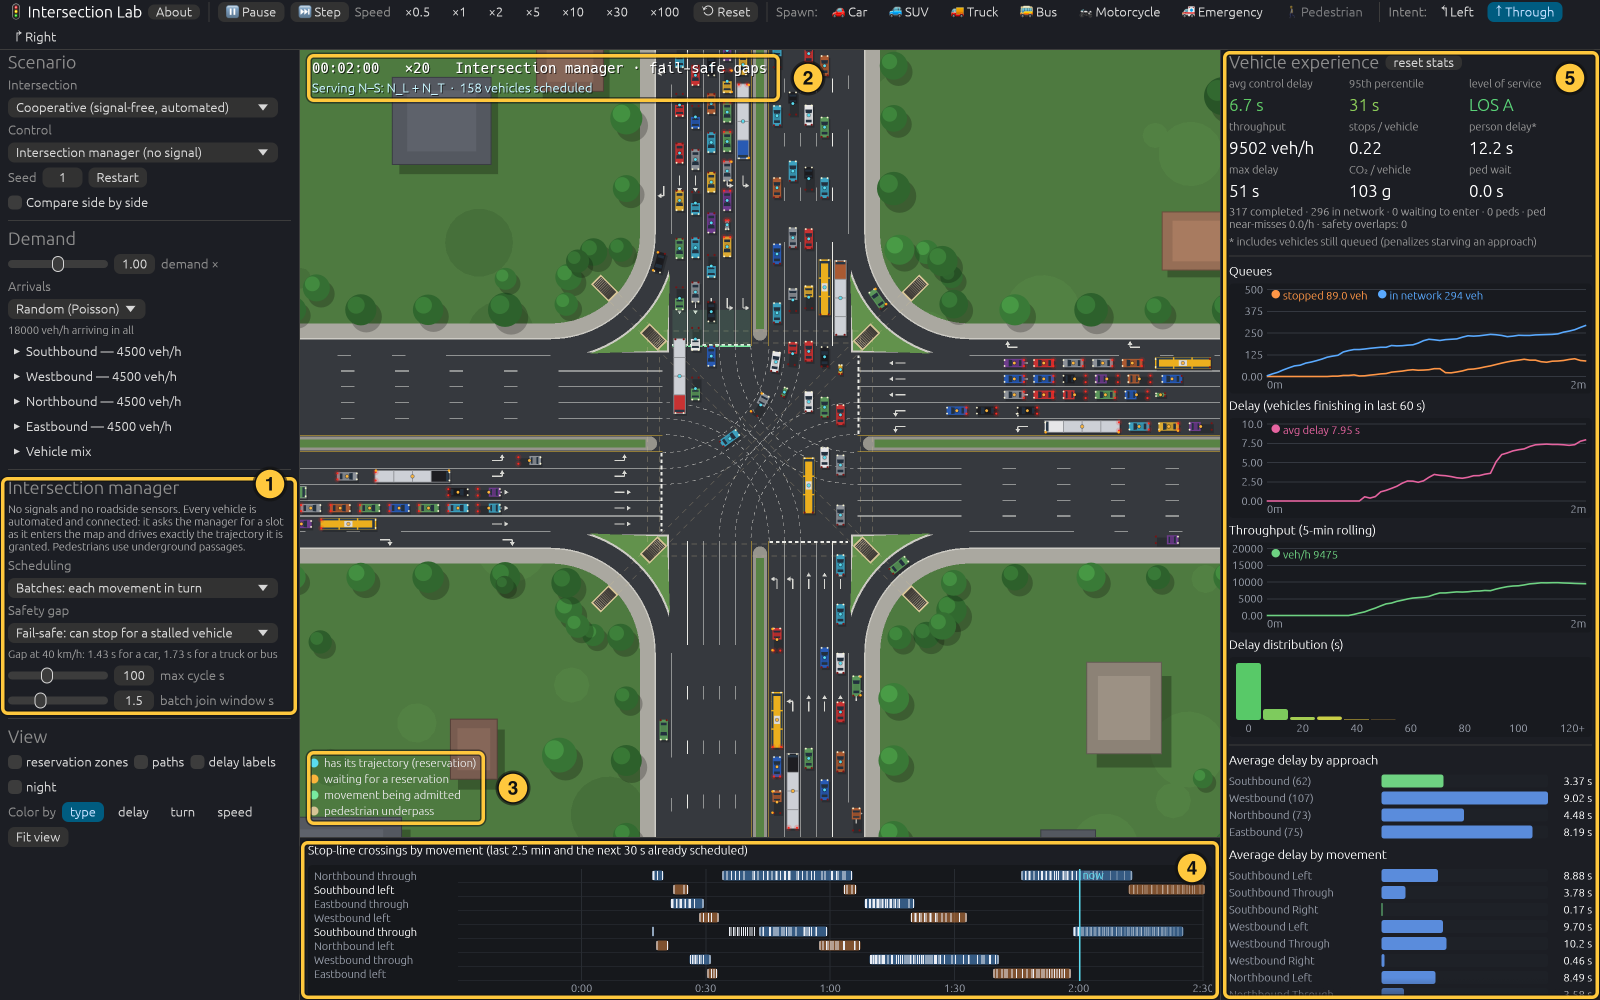
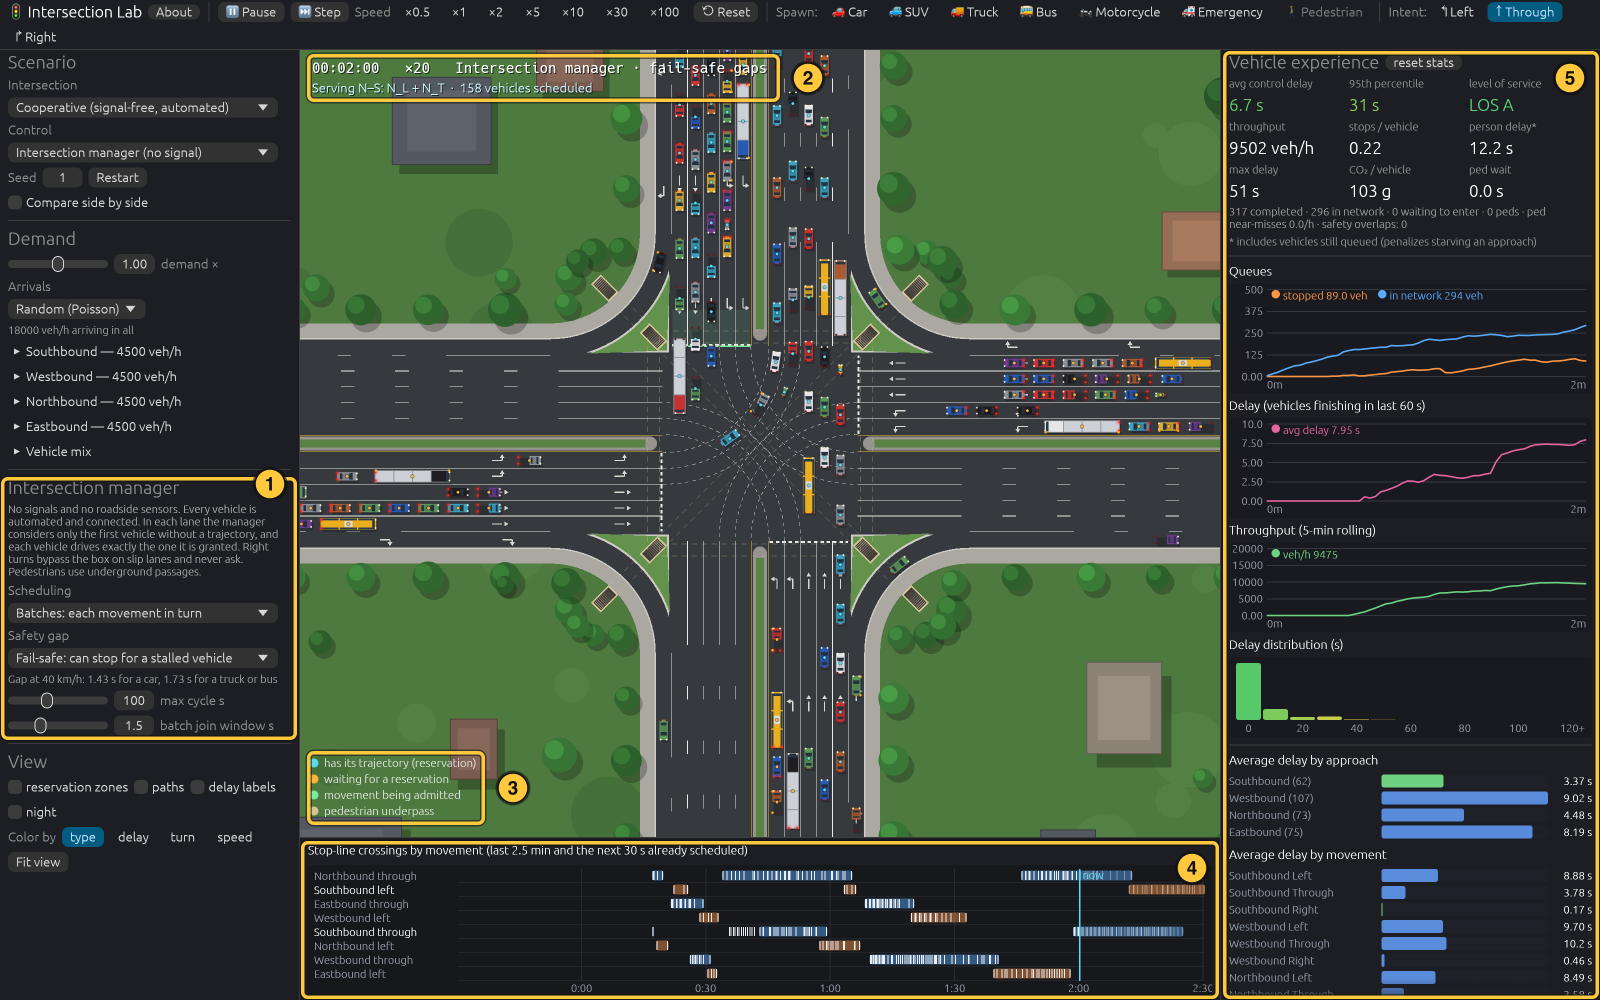
Retake the screenshots that show the old app text
The manager's description and the note under the sensor settings
changed, so every screenshot that shows either was retaken with the
app's scripted-screenshot settings:

- coop-manager.png and sensors.png are the same crops of new captures;
  coop-manager.png is 50 px taller for the longer description.
- coop.png and overview.png keep their hand-drawn callouts. Only the
  changed part of the left panel comes from a new capture, and the
  first callout on coop.png is extended to frame the taller section.
- coop-compare.png and the README's arterial.png, compare.png,
  corridor.png and cooperative.png are new captures with the same
  settings and framing. Appendix A of docs/architecture.md now lists
  the README images' settings.

docs/roundabout.png, which nothing references, still shows the old
note.

Changed region(s): [[0.0, 0.496, 0.1875, 0.868]]

diff --git a/docs/architecture.md b/docs/architecture.md
@@ -3333,6 +3333,15 @@ Every capture used `TS_SPEED=20` and `TS_SHOT_AFTER=120` unless listed otherwise
 | `coop-bench-window` | `TS_LAYOUT=cooperative TS_BENCH=controllers TS_SPEED=1 TS_SHOT_AFTER=150` |
 | `layouts` | `TS_LAYOUT` set to each layout's key |
 
+The README's screenshots are made the same way:
+
+| Image | Settings |
+|---|---|
+| `docs/arterial.png` | `TS_SPEED=30 TS_SHOT_AFTER=420` |
+| `docs/compare.png` | `TS_TWIN=Fixed TS_SPEED=100 TS_SHOT_AFTER=600` |
+| `docs/corridor.png` | `TS_CORRIDOR=3 TS_SPEED=100 TS_SHOT_AFTER=600` |
+| `docs/cooperative.png` | `TS_LAYOUT=cooperative TS_TWIN=fcfs TS_SPEED=10 TS_SHOT_AFTER=600` |
+
 A few things to know when making new ones:
 
 * **Resolution:** on a Retina display a 1600 × 1000 window is captured at 3200 × 2000
